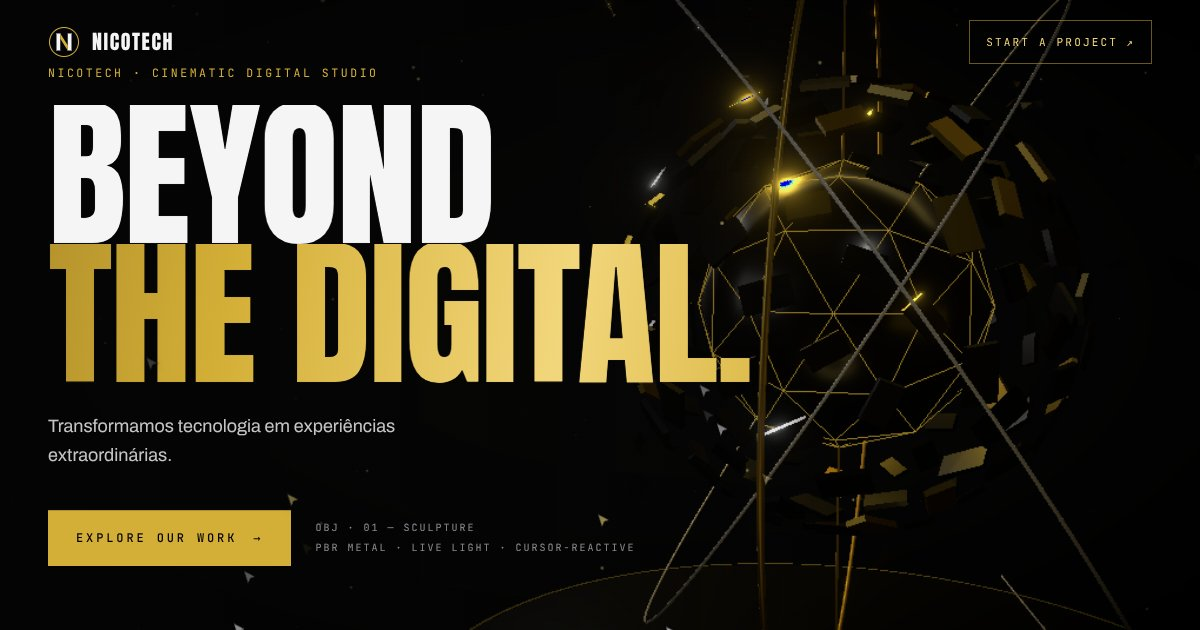
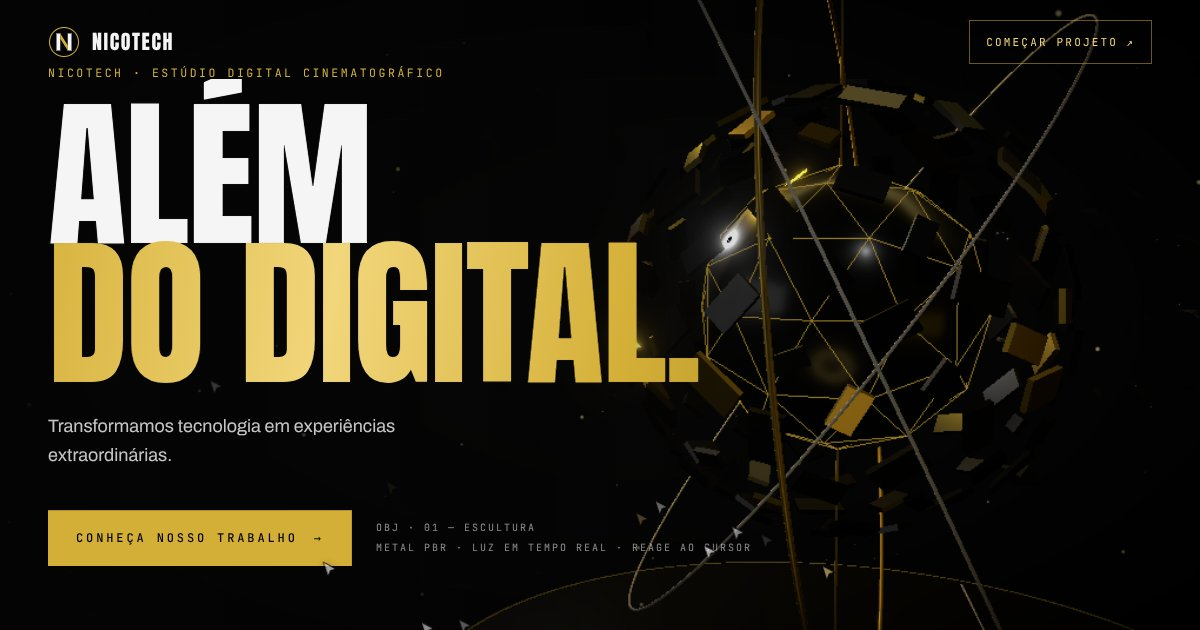
Translate the whole experience to Brazilian Portuguese
All headlines, buttons, navigation, HUD scene names, services, lab, finale,
metadata and the share image are now in pt-BR. Fix SplitText masks and the
gold gradient text clipping accents (É, Ç, Á).

Claude-Session: https://claude.ai/code/session_01Q2jXwj6aYkh6m5zhynFypc

diff --git a/components/scenes/WorkScene.tsx b/components/scenes/WorkScene.tsx
@@ -53,7 +53,7 @@ function WorkCopy({ project, index, total }: { project: Project; index: number; 
 
       <div data-slate className="absolute left-[var(--gutter)] top-24 z-10">
         <p className="eyebrow">
-          03 — Selected work · {project.index}/{String(total).padStart(2, "0")}
+          03 — Projetos selecionados · {project.index}/{String(total).padStart(2, "0")}
         </p>
       </div>
 
@@ -69,12 +69,12 @@ function WorkCopy({ project, index, total }: { project: Project; index: number; 
       </div>
 
       <div data-live className="absolute bottom-28 left-[var(--gutter)] z-10 bg-void/80 px-4 py-3 font-mono text-[10px] uppercase tracking-[0.2em] text-bone/80 backdrop-blur-md sm:bottom-32">
-        <span className="text-gold">● Live capture</span> — {project.url.replace("https://", "").replace(/\/$/, "")} ·{" "}
+        <span className="text-gold">● Captura real</span> — {project.url.replace("https://", "").replace(/\/$/, "")} ·{" "}
         <span ref={pct}>000</span>%
       </div>
 
       <div data-mobilecap className="absolute bottom-44 left-[var(--gutter)] z-10 max-w-[15rem] sm:bottom-auto sm:left-auto sm:right-[var(--gutter)] sm:top-1/3 sm:text-right">
-        <p className="eyebrow">Mobile</p>
+        <p className="eyebrow">Versão celular</p>
         <p className="display mt-2 text-[clamp(2rem,4vw,3.6rem)]">Pensado para o polegar.</p>
       </div>
       </div>
@@ -91,7 +91,7 @@ function WorkCopy({ project, index, total }: { project: Project; index: number; 
                 focus === f ? "bg-gold text-void" : "text-bone/75 hover:text-bone"
               }`}
             >
-              {f}
+              {f === "desktop" ? "Computador" : "Celular"}
             </button>
           ))}
         </div>
@@ -117,7 +117,7 @@ function WorkCopy({ project, index, total }: { project: Project; index: number; 
         </a>
         {focus !== "auto" && (
           <span className="ml-1 font-mono text-[10px] uppercase tracking-[0.18em] text-bone/50">
-            Câmera travada no {focus} · clique de novo para voltar
+            Câmera travada no {focus === "desktop" ? "computador" : "celular"} · clique de novo para voltar
           </span>
         )}
       </div>

diff --git a/components/scenes/FinalScene.tsx b/components/scenes/FinalScene.tsx
@@ -17,11 +17,11 @@ function FinalCopy() {
   return (
     <div className="relative flex h-full flex-col items-center justify-center px-[var(--gutter)] text-center">
       <div className="scrim-b pointer-events-none absolute inset-0 opacity-60" aria-hidden />
-      <p className="eyebrow relative">06 — Contact</p>
+      <p className="eyebrow relative">06 — Contato</p>
       <h2 className="display relative mt-6 text-[clamp(3.2rem,10.5vw,10rem)]">
-        <span data-fl className="block">Let&apos;s build</span>
-        <span data-fl className="block">something</span>
-        <span data-fl data-gold className="block text-gold">extraordinary.</span>
+        <span data-fl className="block">Vamos criar</span>
+        <span data-fl className="block">algo</span>
+        <span data-fl data-gold className="block text-gold">extraordinário.</span>
       </h2>
       <Blueprint mode="scene" sceneId="final" range={[0.42, 0.78]} cursors={18} className="relative mt-12">
         <a
@@ -32,7 +32,7 @@ function FinalCopy() {
           className="group relative flex min-h-20 items-center gap-6 overflow-hidden bg-gold px-10 font-mono text-sm font-medium uppercase tracking-[0.3em] text-void sm:min-h-24 sm:px-16 sm:text-base"
         >
           <span className="absolute inset-0 -translate-x-full bg-gold-hi transition-transform duration-700 ease-[var(--ease-out-expo)] group-hover:translate-x-0" aria-hidden />
-          <span className="relative">Start a project</span>
+          <span className="relative">Começar um projeto</span>
           <span className="relative transition-transform duration-500 group-hover:translate-x-1 group-hover:-translate-y-1" aria-hidden>
             ↗
           </span>
@@ -55,7 +55,7 @@ function FinalCopy() {
 
 export function FinalScene() {
   return (
-    <SceneSection id="final" length={2.8} label="Let's build something extraordinary" overlap={false}>
+    <SceneSection id="final" length={2.8} label="Vamos criar algo extraordinário" overlap={false}>
       <FinalCopy />
     </SceneSection>
   );

diff --git a/components/scenes/HeroScene.tsx b/components/scenes/HeroScene.tsx
@@ -30,14 +30,14 @@ function HeroCopy() {
         className="relative z-10 flex h-full max-w-[min(100%,58rem)] flex-col justify-end px-[var(--gutter)] pb-[13svh] md:justify-center md:pb-0"
       >
         <p data-eyebrow className="eyebrow mb-6">
-          NicoTech · Cinematic Digital Studio
+          NicoTech · Estúdio digital cinematográfico
         </p>
         <h2 className="display text-[clamp(4.2rem,13.5vw,12.5rem)]">
           <span data-line className="block">
-            Beyond
+            Além
           </span>
           <span data-line data-gold className="block text-gold">
-            the digital.
+            do digital.
           </span>
         </h2>
         <p data-sub className="mt-7 max-w-md text-[clamp(1rem,1.5vw,1.2rem)] leading-relaxed text-bone/80">
@@ -49,15 +49,15 @@ function HeroCopy() {
             onClick={() => scrollToScene(`work-${first.slug}`, 0.02)}
             className="group flex min-h-14 items-center gap-4 bg-gold px-7 font-mono text-xs font-medium uppercase tracking-[0.24em] text-void transition-colors hover:bg-gold-hi"
           >
-            Explore our work
+            Conheça nosso trabalho
             <span aria-hidden className="transition-transform duration-300 group-hover:translate-x-1">
               →
             </span>
           </button>
           <p data-bp className="font-mono text-[10px] uppercase leading-5 tracking-[0.2em] text-bone/55">
-            OBJ · 01 — Sculpture
+            OBJ · 01 — Escultura
             <br />
-            PBR metal · live light · cursor-reactive
+            Metal PBR · luz em tempo real · reage ao cursor
           </p>
         </Blueprint>
       </div>
@@ -67,7 +67,7 @@ function HeroCopy() {
 
 export function HeroScene() {
   return (
-    <SceneSection id="hero" length={2.8} label="Beyond the digital">
+    <SceneSection id="hero" length={2.8} label="Além do digital">
       <HeroCopy />
     </SceneSection>
   );

diff --git a/data/capabilities.ts b/data/capabilities.ts
@@ -9,42 +9,42 @@ export type Capability = {
 export const capabilities: Capability[] = [
   {
     index: "01",
-    title: "Premium Websites",
+    title: "Sites Premium",
     line: "Interfaces que vendem antes da primeira conversa.",
     body: "Sites institucionais e comerciais com direção de arte própria, copy de conversão, SEO técnico e performance de verdade.",
     visual: "panes",
   },
   {
     index: "02",
-    title: "Digital Experiences",
-    line: "WebGL, 3D e motion com propósito.",
+    title: "Experiências Digitais",
+    line: "WebGL, 3D e animação com propósito.",
     body: "Experiências interativas, scroll storytelling e apresentações imersivas que fazem a marca ser lembrada.",
     visual: "knot",
   },
   {
     index: "03",
-    title: "Artificial Intelligence",
+    title: "Inteligência Artificial",
     line: "Agentes que respondem, qualificam e encaminham.",
     body: "Atendimento com IA no WhatsApp e assistentes treinados no seu negócio, com regras claras e passagem para humano.",
     visual: "network",
   },
   {
     index: "04",
-    title: "Business Automation",
+    title: "Automação de Processos",
     line: "O trabalho repetido roda sozinho.",
     body: "Fluxos que conectam formulários, planilhas, CRM e mensagens — menos digitação, menos erro, mais tempo.",
     visual: "flow",
   },
   {
     index: "05",
-    title: "Web Systems",
+    title: "Sistemas Web",
     line: "Painéis e sistemas sob medida.",
     body: "Áreas de cliente, dashboards e ferramentas internas que organizam a operação em um só lugar.",
     visual: "grid",
   },
   {
     index: "06",
-    title: "Digital Strategy",
+    title: "Estratégia Digital",
     line: "Direção antes da execução.",
     body: "Posicionamento, arquitetura de informação, tráfego pago e Instagram alinhados ao objetivo comercial.",
     visual: "gyro",

diff --git a/components/lab/BuildInterface.tsx b/components/lab/BuildInterface.tsx
@@ -31,7 +31,7 @@ export function BuildInterface() {
         <div className="grid h-full grid-cols-3 grid-rows-[auto_1fr_auto] gap-3">
           <div data-bp className="col-span-3 flex items-center justify-between border-b border-white/10 pb-2">
             <span className="font-display text-lg tracking-wide">SEU PROJETO</span>
-            <span className="font-mono text-[9px] uppercase tracking-[0.2em] text-gold">build v1</span>
+            <span className="font-mono text-[9px] uppercase tracking-[0.2em] text-gold">versão 1</span>
           </div>
           <div data-bp className="col-span-2 flex flex-col justify-end bg-gradient-to-br from-gold/25 via-graphite to-void p-3">
             <p className="display text-[clamp(1.4rem,3vw,2.4rem)]">Hero</p>
@@ -51,7 +51,7 @@ export function BuildInterface() {
               </div>
             </div>
           </div>
-          {["Layout", "Motion", "Deploy"].map((l) => (
+          {["Layout", "Animação", "Publicação"].map((l) => (
             <div data-bp key={l} className="border border-white/10 p-2">
               <p className="font-mono text-[9px] uppercase tracking-[0.16em] text-bone/60">{l}</p>
               <div className="mt-2 h-1 bg-white/10">
@@ -64,7 +64,7 @@ export function BuildInterface() {
 
       <label className="block">
         <span className="mb-1 flex justify-between font-mono text-[10px] uppercase tracking-[0.2em] text-bone/55">
-          Timeline da construção <span>{Math.round(p * 100)}%</span>
+          Linha do tempo da construção <span>{Math.round(p * 100)}%</span>
         </span>
         <input
           type="range"

diff --git a/components/scenes/ManifestoScene.tsx b/components/scenes/ManifestoScene.tsx
@@ -54,13 +54,13 @@ function ManifestoCopy() {
   return (
     <div data-stage className="relative flex h-full items-center justify-center px-[var(--gutter)] [perspective:900px]">
       <p className="eyebrow absolute left-[var(--gutter)] top-24">02 — Manifesto</p>
-      <h2 className="sr-only">We don&apos;t just build websites. We build experiences.</h2>
+      <h2 className="sr-only">Não fazemos apenas sites. Criamos experiências.</h2>
       <p data-a aria-hidden className="display absolute inset-x-[var(--gutter)] text-center text-[clamp(3rem,10.5vw,10rem)] [transform-style:preserve-3d]">
-        We don&apos;t just build websites.
+        Não fazemos apenas sites.
       </p>
       <div data-b-wrap className="absolute inset-x-[var(--gutter)] text-center">
         <p data-b aria-hidden className="display text-[clamp(3.4rem,12vw,11.5rem)] [transform-style:preserve-3d]">
-          We build <span className="text-gold">experiences.</span>
+          Criamos <span className="text-gold">experiências.</span>
         </p>
       </div>
       <div className="absolute inset-x-[var(--gutter)] bottom-[14svh] mx-auto max-w-2xl text-center">

diff --git a/components/scenes/IntroScene.tsx b/components/scenes/IntroScene.tsx
@@ -46,7 +46,7 @@ function IntroCopy() {
 
   return (
     <div className="relative flex h-full flex-col items-center justify-end px-[var(--gutter)] pb-[12svh] text-center">
-      <h1 className="sr-only">NicoTech — Digital Experiences Beyond Ordinary</h1>
+      <h1 className="sr-only">NicoTech — Experiências digitais além do comum</h1>
       <p
         ref={brand}
         data-brand
@@ -56,10 +56,10 @@ function IntroCopy() {
         NICOTECH
       </p>
       <p data-tagline className="mt-4 font-mono text-[clamp(0.7rem,1.4vw,0.95rem)] uppercase tracking-[0.42em] text-gold-hi">
-        We create digital experiences.
+        Criamos experiências digitais.
       </p>
       <div data-cue className="absolute bottom-6 left-1/2 flex -translate-x-1/2 flex-col items-center gap-2" aria-hidden>
-        <span className="font-mono text-[10px] uppercase tracking-[0.3em] text-bone/50">Scroll to enter</span>
+        <span className="font-mono text-[10px] uppercase tracking-[0.3em] text-bone/50">Role para entrar</span>
         <span className="h-10 w-px animate-pulse bg-gradient-to-b from-gold to-transparent" />
       </div>
       <div

diff --git a/components/cinematic/Header.tsx b/components/cinematic/Header.tsx
@@ -22,8 +22,8 @@ export function Header() {
       </a>
       <nav aria-label="Principal" className="pointer-events-auto hidden items-center gap-8 md:flex">
         {[
-          ["Work", `#work-${projects[0].slug}`, () => scrollToScene(`work-${projects[0].slug}`, 0.05)],
-          ["Capabilities", "#capabilities", () => scrollToScene("capabilities", 0.02)],
+          ["Projetos", `#work-${projects[0].slug}`, () => scrollToScene(`work-${projects[0].slug}`, 0.05)],
+          ["Serviços", "#capabilities", () => scrollToScene("capabilities", 0.02)],
           ["Lab", "#lab", () => scrollToTarget("#lab")],
         ].map(([label, href, fn]) => (
           <a
@@ -42,7 +42,7 @@ export function Header() {
         rel="noopener noreferrer"
         className="pointer-events-auto group flex min-h-11 items-center gap-2 border border-gold/50 px-4 font-mono text-[11px] uppercase tracking-[0.2em] text-gold-hi transition-colors hover:bg-gold hover:text-void"
       >
-        Start a project
+        Começar projeto
         <span aria-hidden className="transition-transform group-hover:translate-x-0.5">↗</span>
       </a>
     </header>

diff --git a/app/layout.tsx b/app/layout.tsx
@@ -9,16 +9,16 @@ const mono = JetBrains_Mono({ subsets: ["latin"], display: "swap", variable: "--
 
 export const metadata: Metadata = {
   metadataBase: new URL(site.url),
-  title: { default: "NicoTech — Digital Experiences Beyond Ordinary", template: "%s · NicoTech" },
+  title: { default: "NicoTech — Experiências digitais além do comum", template: "%s · NicoTech" },
   description: site.description,
   alternates: { canonical: "/" },
   openGraph: {
     type: "website",
     locale: "pt_BR",
     siteName: "NicoTech",
-    title: "NicoTech — Digital Experiences Beyond Ordinary",
+    title: "NicoTech — Experiências digitais além do comum",
     description: site.description,
-    images: [{ url: "/og.jpg", width: 1200, height: 630, alt: "NicoTech — Beyond the digital." }],
+    images: [{ url: "/og.jpg", width: 1200, height: 630, alt: "NicoTech — Além do digital." }],
   },
   twitter: { card: "summary_large_image" },
   icons: { icon: "/icon.svg" },

diff --git a/app/globals.css b/app/globals.css
@@ -69,6 +69,11 @@ body {
   color: transparent;
   animation: sheen 7s linear infinite;
 }
+/* the gradient only paints inside the box: extend it over accents (Á, Ê) */
+.display .gold-text {
+  padding-top: 0.16em;
+  margin-top: -0.16em;
+}
 @keyframes sheen {
   to {
     background-position: -200% 0;
@@ -92,11 +97,14 @@ body {
   background: linear-gradient(0deg, rgba(5, 5, 5, 0.92) 0%, rgba(5, 5, 5, 0.5) 40%, transparent 75%);
 }
 
-/* SplitText masks */
+/* SplitText masks — room for Portuguese accents (É Ê Ã Ç) above/below the tight leading */
+/* SplitText adds no class to mask wrappers, only inline overflow:clip */
+.display [style*="overflow: clip"],
 .line-mask {
-  overflow: clip;
-  padding-bottom: 0.04em;
-  margin-bottom: -0.04em;
+  padding-top: 0.16em;
+  margin-top: -0.16em;
+  padding-bottom: 0.08em;
+  margin-bottom: -0.08em;
 }
 
 /* ─── Blueprint build (reference motion signature) ───────────── */

diff --git a/components/scenes/LabScene.tsx b/components/scenes/LabScene.tsx
@@ -13,12 +13,12 @@ const EXPERIMENTS = [
 
 export function LabScene() {
   return (
-    <SceneSection id="lab" label="NicoTech Lab" pinned={false}>
+    <SceneSection id="lab" label="Laboratório NicoTech" pinned={false}>
       <div className="relative px-[var(--gutter)] pb-[30svh] pt-[24svh]">
         <Blueprint mode="self" cursors={10} className="max-w-3xl">
-          <p data-bp className="eyebrow">05 — NicoTech Lab</p>
+          <p data-bp className="eyebrow">05 — Laboratório NicoTech</p>
           <h2 data-bp className="display mt-4 text-[clamp(3rem,9vw,8.5rem)]">
-            The <span className="text-gold">lab.</span>
+            O <span className="text-gold">laboratório.</span>
           </h2>
           <p data-bp className="mt-6 max-w-xl text-lg leading-relaxed text-bone/80">
             Experimentos reais, rodando agora no seu navegador. Nada aqui é vídeo ou imagem estática: toque, arraste, escreva.

diff --git a/components/scenes/CapabilitiesScene.tsx b/components/scenes/CapabilitiesScene.tsx
@@ -38,9 +38,9 @@ function CapsCopy() {
     <div data-caps className="relative flex h-full flex-col justify-between px-[var(--gutter)] pb-14 pt-24">
       <div className="scrim-b pointer-events-none absolute inset-0 md:hidden" aria-hidden />
       <div className="relative">
-        <p className="eyebrow">04 — Capabilities</p>
+        <p className="eyebrow">04 — Serviços</p>
         <h2 data-title className="display mt-4 text-[clamp(2.8rem,7.5vw,7rem)]">
-          Our capabilities<span className="text-gold">.</span>
+          Nossos serviços<span className="text-gold">.</span>
         </h2>
       </div>
 
@@ -92,7 +92,7 @@ function CapsCopy() {
 
 export function CapabilitiesScene() {
   return (
-    <SceneSection id="capabilities" length={6.5} label="Our capabilities">
+    <SceneSection id="capabilities" length={6.5} label="Nossos serviços">
       <CapsCopy />
     </SceneSection>
   );
